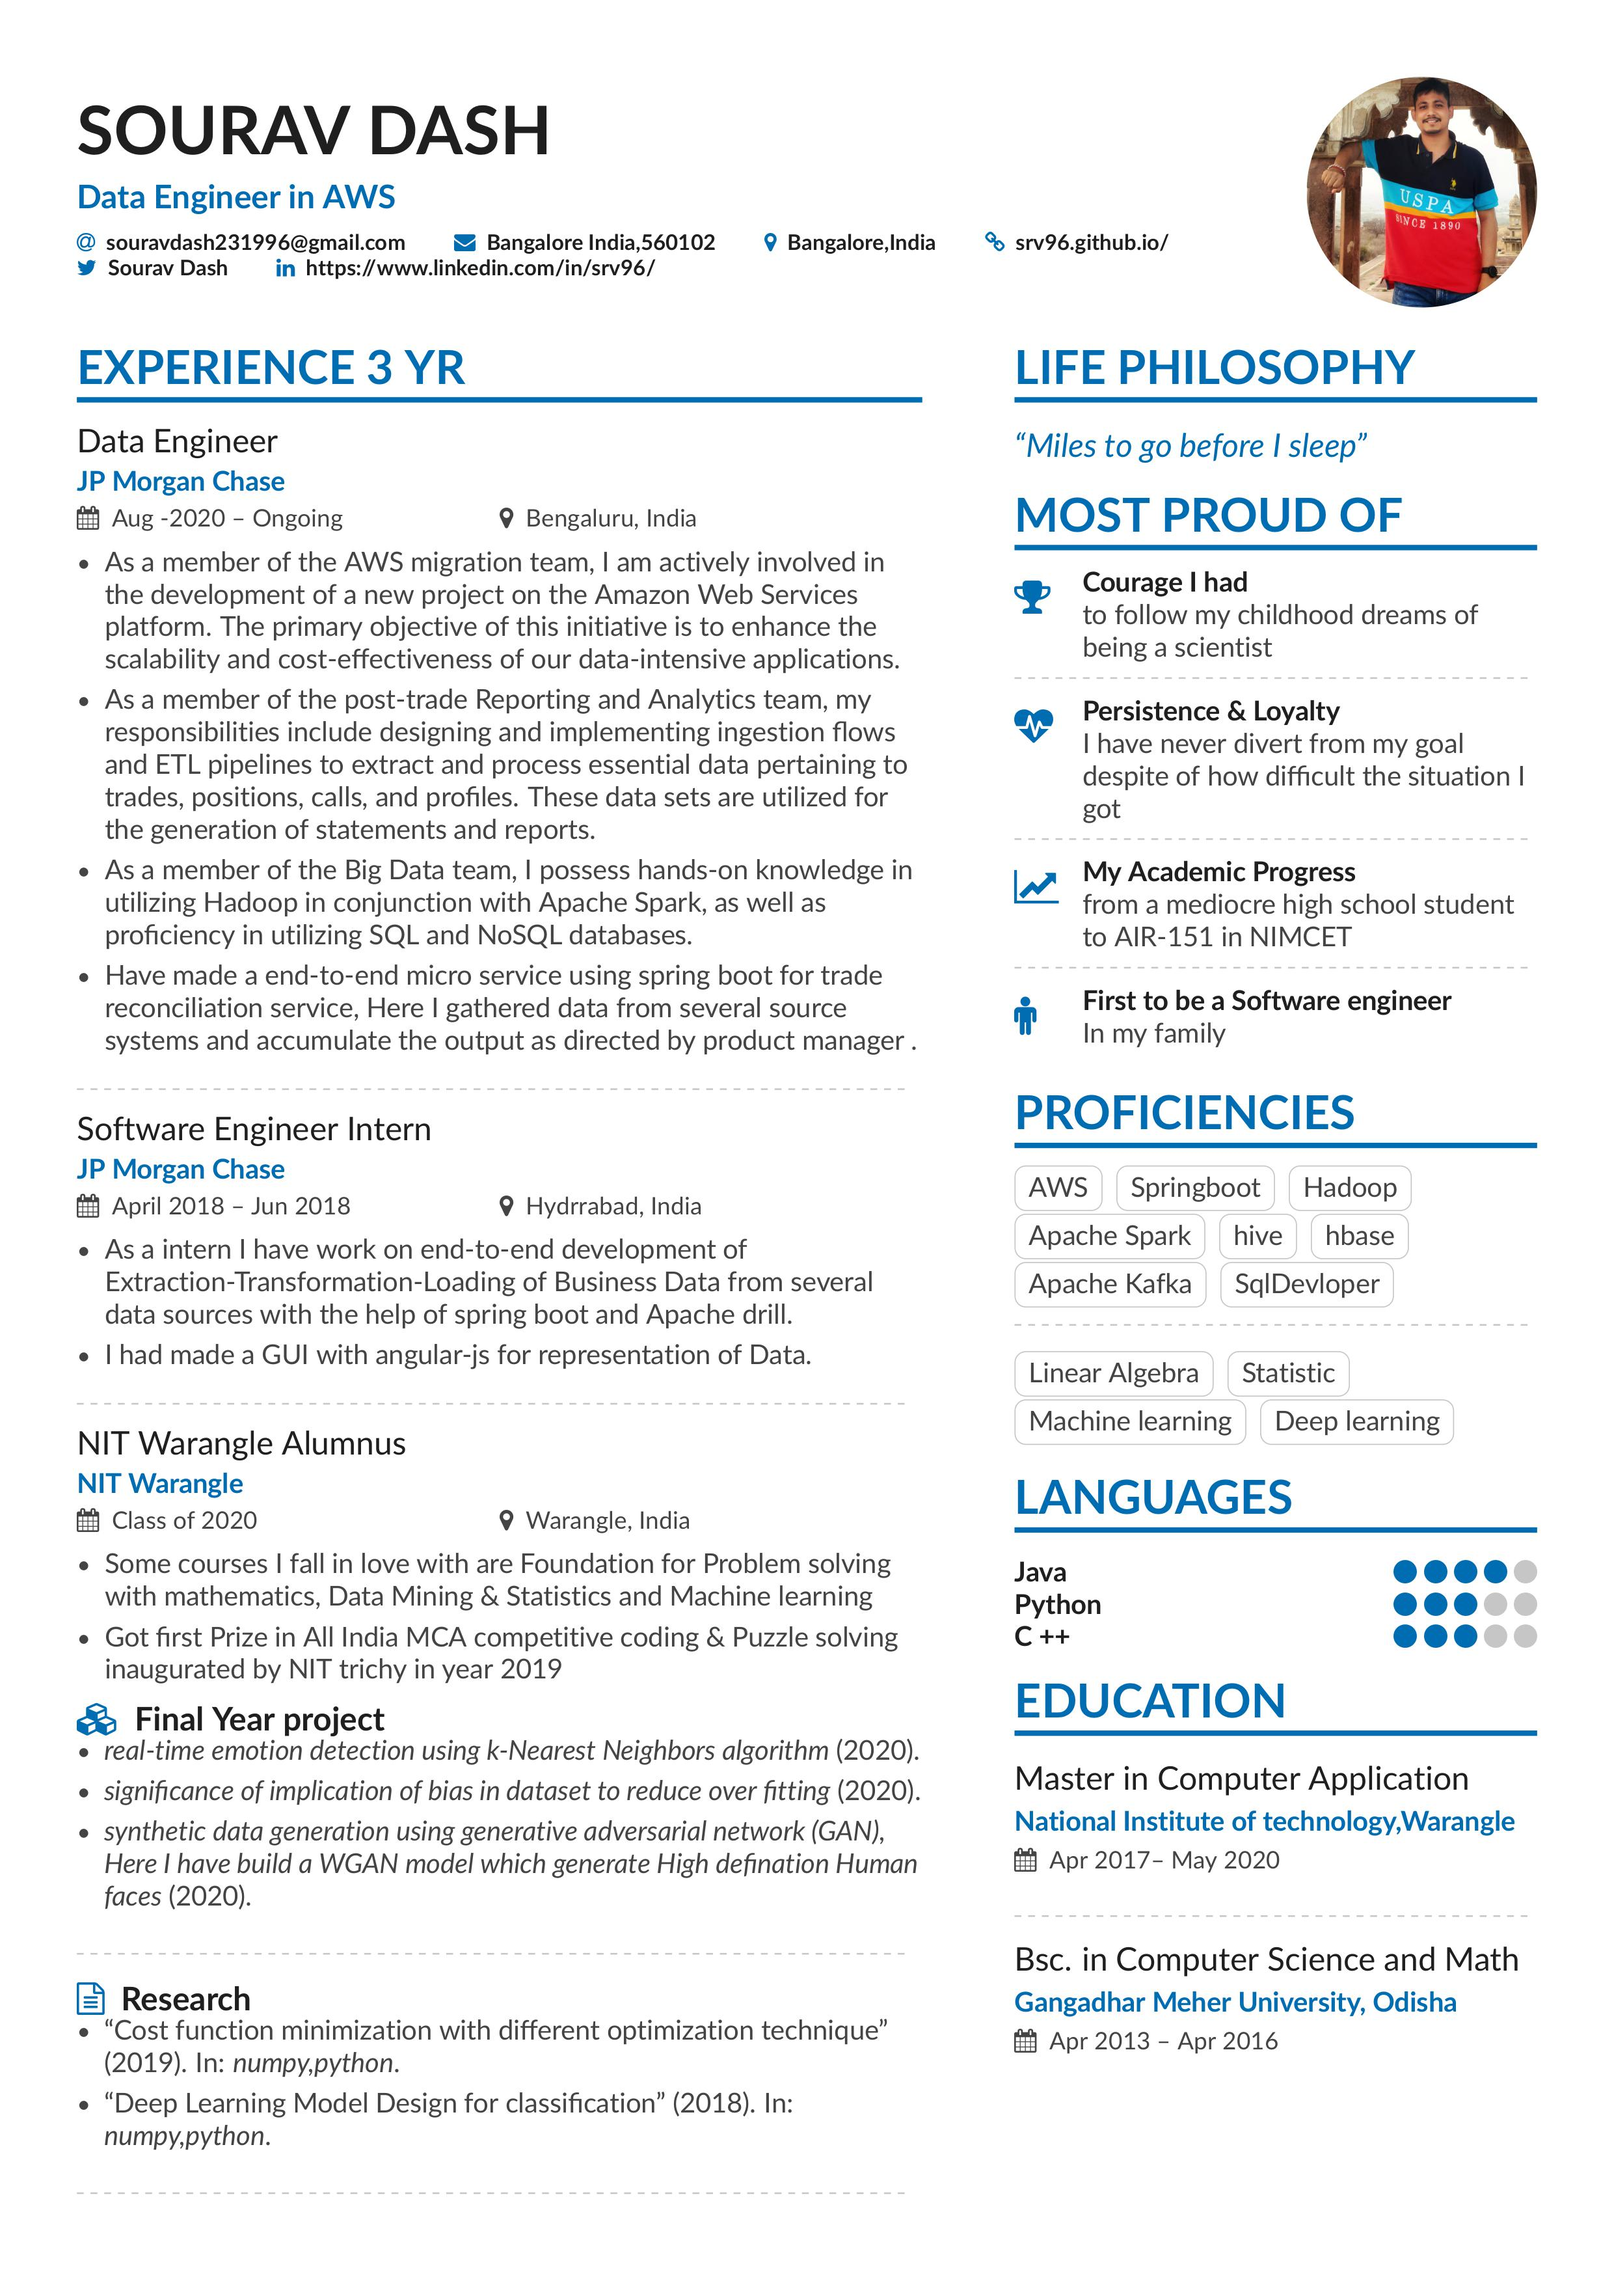
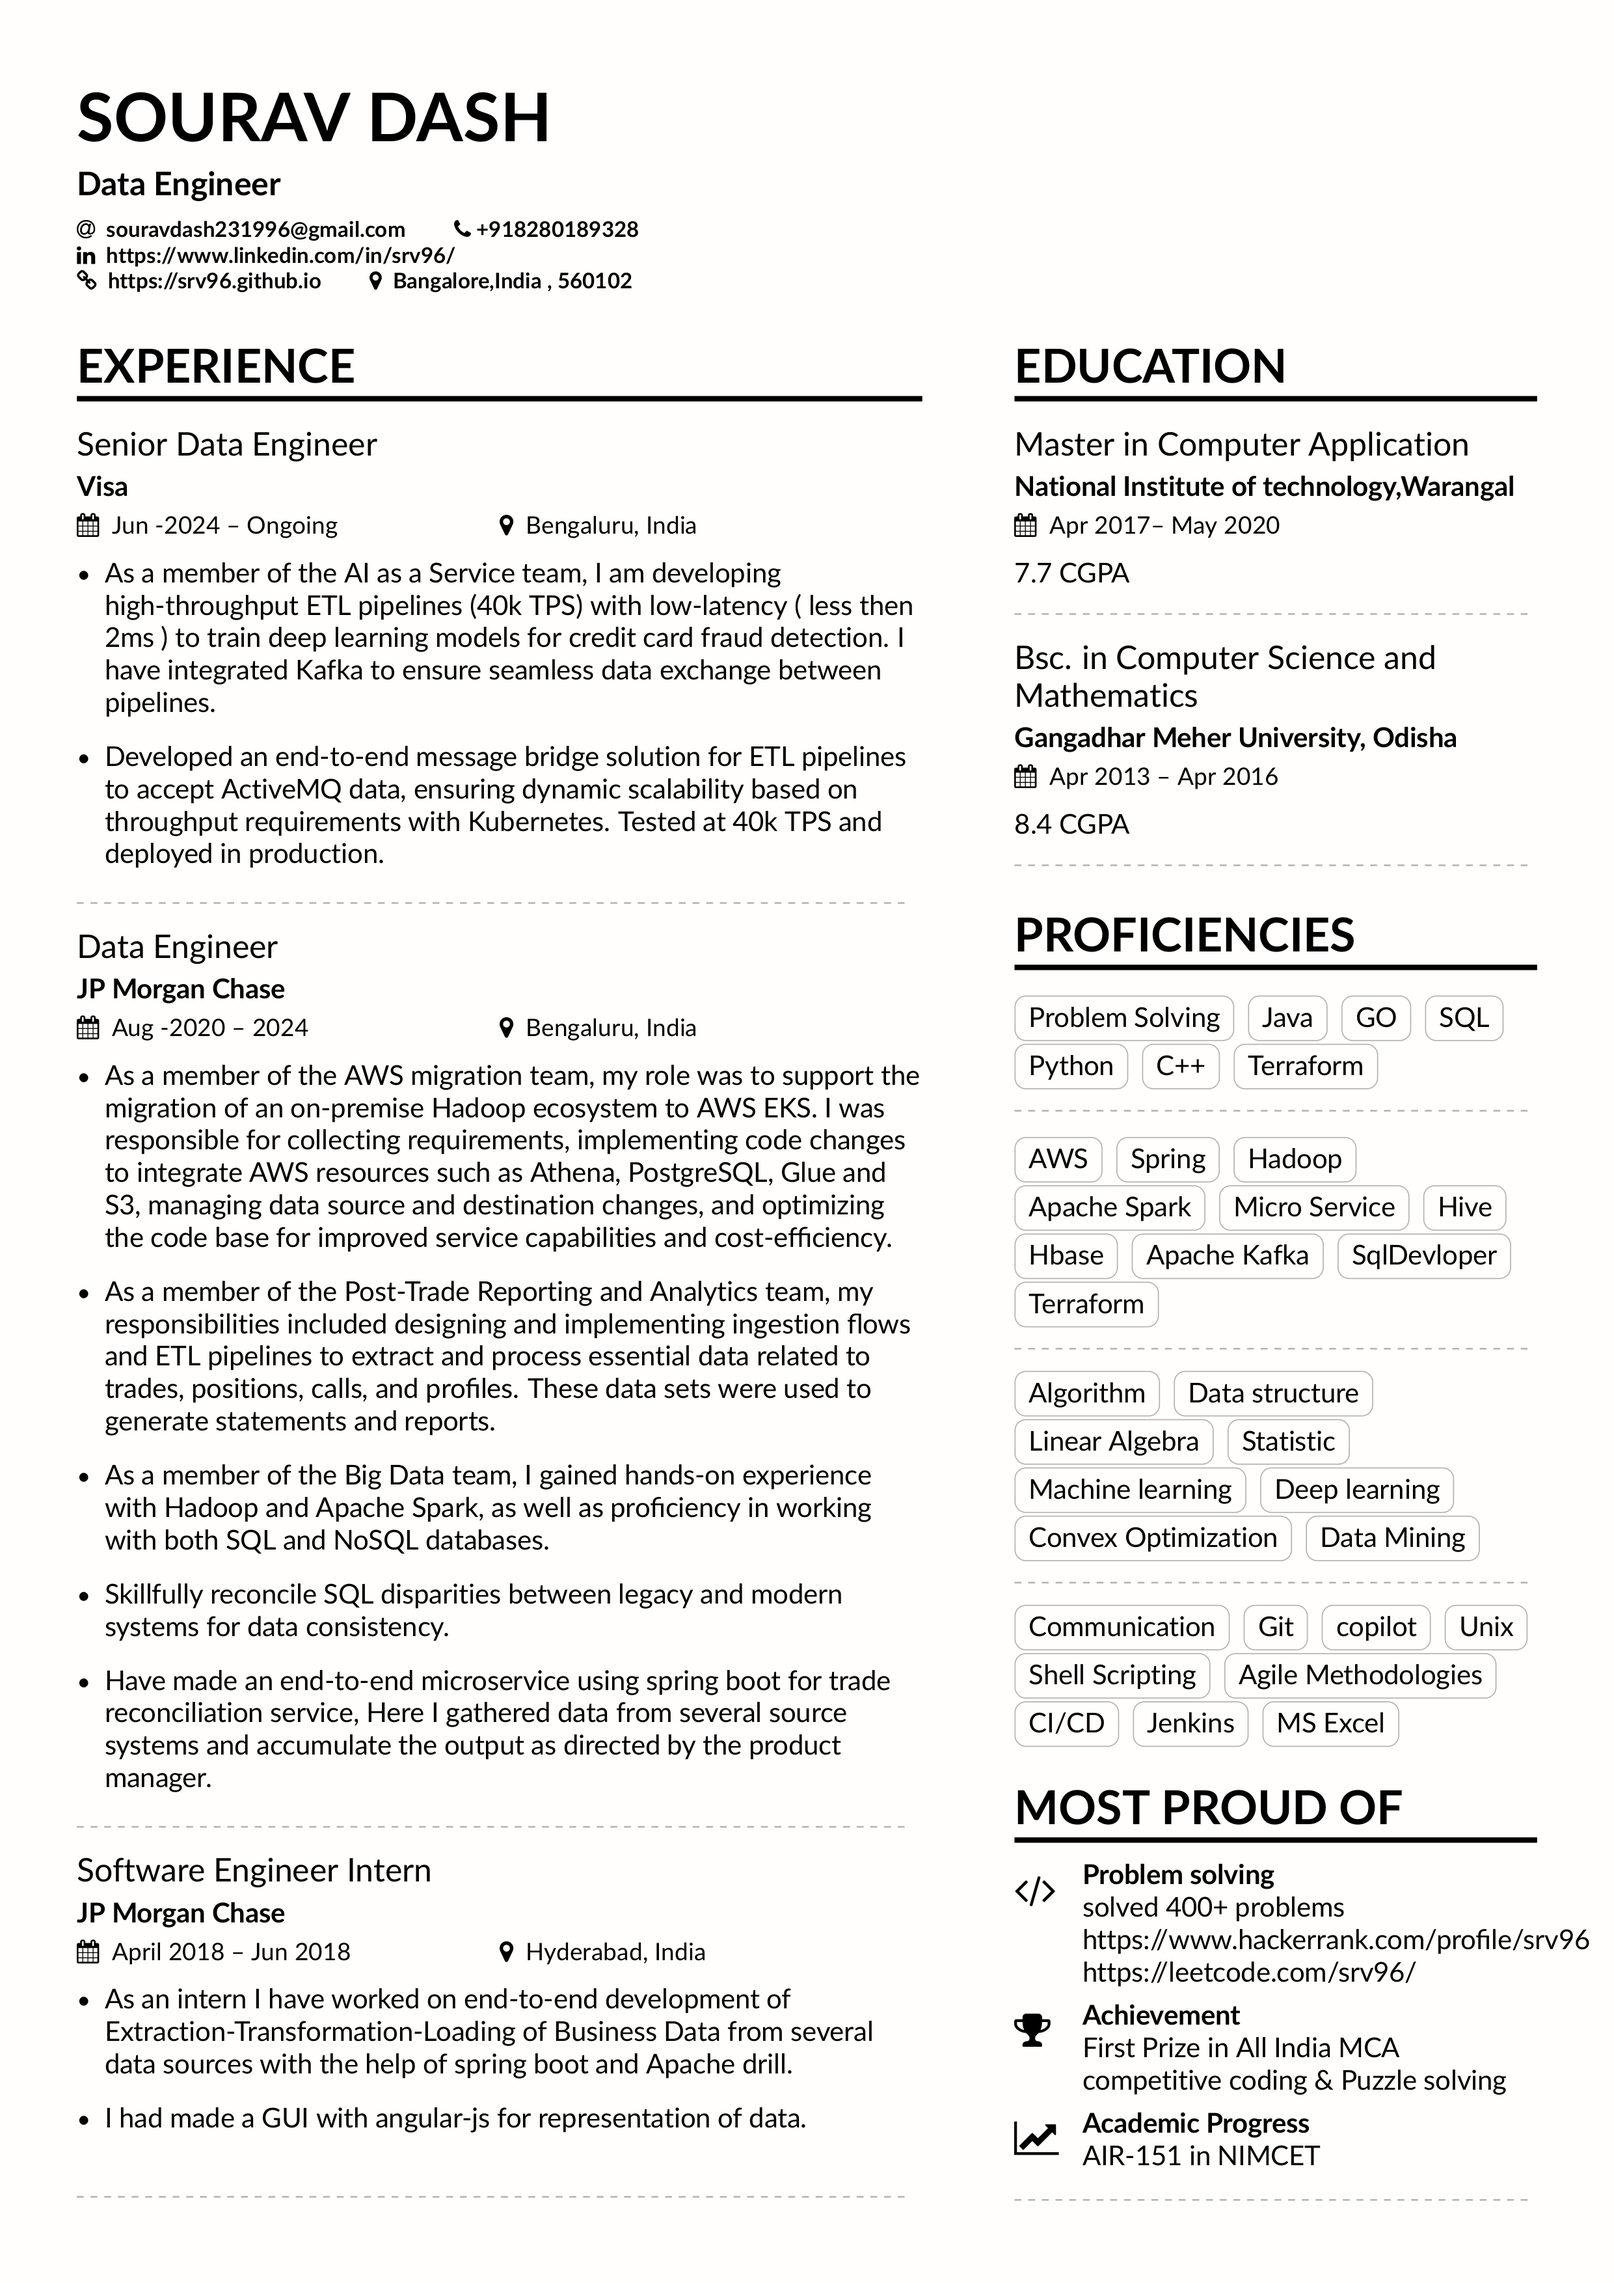
job role updated

diff --git a/index.html b/index.html
@@ -64,7 +64,7 @@
                         <div class="typed-text">Data Engineer, Data Analyst</div>
                     </div>
                     <div class="hero-btn">
-                        <a class="btn" href="cv/resume29122023.jpg" data-lightbox="portfolio">CV</a>
+                        <a class="btn" href="cv/cv.jpg" data-lightbox="portfolio">CV</a>
                         <a class="btn" href="mailto:souravdash231996@gmail.com">Contact Me</a>
                     </div>
                 </div>
@@ -98,7 +98,7 @@
                     </div>
                     <div class="about-text">
                         <p>
-                            As a Data Engineer, I specialize in designing robust AWS solutions for on-premises Big Data
+                            As a Data Engineer, I specialize in designing robust solutions for on-premises Big Data
                             applications,
                             encompassing Micro Services and Big Data lifecycle management.
                         </p>
@@ -236,11 +236,24 @@
         <div class="timeline">
             <div class="timeline-item left wow slideInLeft" data-wow-delay="0.1s">
                 <div class="timeline-text">
-                    <div class="timeline-date">2021 - present</div>
+                    <div class="timeline-date">2024 - present</div>
+                    <h2>Senior Data Engineer</h2>
+                    <h4>Visa AI as a Service , Bangalore ,India</h4>
+                    <p>
+                        Currently Building high-throughput ETL pipelines (40k TPS) with low-latency ( less then
+                        2ms ) to train deep learning models for credit card fraud detection. along with that working on
+                        message bridge solution for accepting high-throughput transection from active-mq to ETL pipeline with
+                        ensuring dynamic scalability based on throughput requirements with Kubernetes.
+                    </p>
+                </div>
+            </div>
+            <div class="timeline-item right wow slideInRight" data-wow-delay="0.1s">
+                <div class="timeline-text">
+                    <div class="timeline-date">2021 - 2024</div>
                     <h2>Data Engineer</h2>
                     <h4>Jp Morgan Chase , Bangalore ,India</h4>
                     <p>
-                        Currently working as Data Engineer in Investment Banking Sector,Contributing to a project
+                        Have worked as Data Engineer in Investment Banking Sector,Contributed to a project
                         related to AWS migration. Apart from that Working on BigData ETL pipeline design,Data
                         Reconciliation,Report Generation using SQL from the processed Data,Reconciling SQL disparities
                         between legacy and modern
@@ -248,7 +261,7 @@
                     </p>
                 </div>
             </div>
-            <div class="timeline-item right wow slideInRight" data-wow-delay="0.1s">
+            <div class="timeline-item left wow slideInLeft" data-wow-delay="0.1s">
                 <div class="timeline-text">
                     <div class="timeline-date">2020 - 2021</div>
                     <h2>Software Engineer</h2>
@@ -259,7 +272,7 @@
                     </p>
                 </div>
             </div>
-            <div class="timeline-item left wow slideInLeft" data-wow-delay="0.1s">
+            <div class="timeline-item right wow slideInRight" data-wow-delay="0.1s">
                 <div class="timeline-text">
                     <div class="timeline-date">2019</div>
                     <h2>Software Engineer Intern</h2>
@@ -271,7 +284,7 @@
                     </p>
                 </div>
             </div>
-            <div class="timeline-item right wow slideInRight" data-wow-delay="0.1s">
+            <div class="timeline-item left wow slideInLeft" data-wow-delay="0.1s">
                 <div class="timeline-text">
                     <div class="timeline-date">2017-2020</div>
                     <h2>Student</h2>
@@ -282,7 +295,7 @@
                     </p>
                 </div>
             </div>
-            <div class="timeline-item left wow slideInLeft" data-wow-delay="0.1s">
+            <div class="timeline-item right wow slideInRight" data-wow-delay="0.1s">
                 <div class="timeline-text">
                     <div class="timeline-date">2013-2017</div>
                     <h2>Student</h2>
@@ -295,7 +308,7 @@
                     </p>
                 </div>
             </div>
-            <div class="timeline-item right wow slideInRight" data-wow-delay="0.1s">
+            <div class="timeline-item left wow slideInLeft" data-wow-delay="0.1s">
                 <div class="timeline-text">
                     <div class="timeline-date">2011-2013</div>
                     <h2>Student</h2>
@@ -306,7 +319,7 @@
                     </p>
                 </div>
             </div>
-            <div class="timeline-item left wow slideInLeft" data-wow-delay="0.1s">
+            <div class="timeline-item right wow slideInRight" data-wow-delay="0.1s">
                 <div class="timeline-text">
                     <div class="timeline-date">2001-2011</div>
                     <h2>Student</h2>
